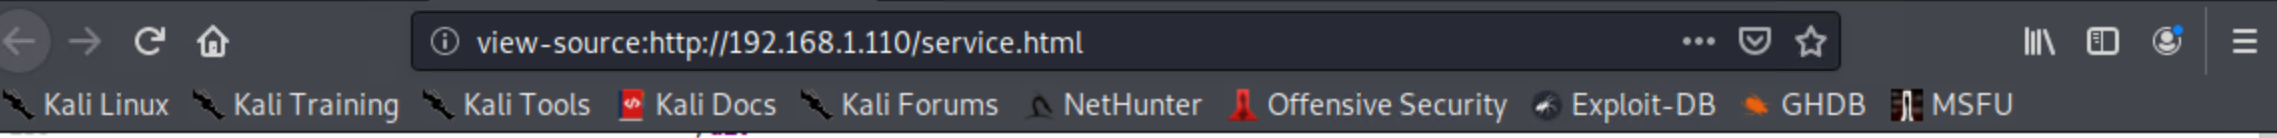
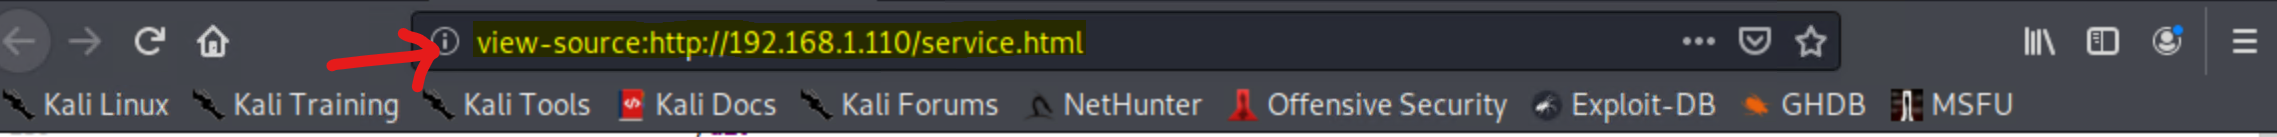
Inspecting the source code

diff --git a/readme.md b/readme.md
@@ -118,7 +118,7 @@ Getting information about open ports using nmap for all hosts in the range of IP
 - Upon inspection of the various webdirectories, the link `http://192.168.1.110/services.html` was found to contain flag 1. This can be done by visiting this link and the right clicking (anywhere on the page) and selecting "source" for by typing `view-source:` before the link:
 
 ![](images/flag1-view-source.png)
-
+![](images/flag1-view-source2.png) 
 
 
 
